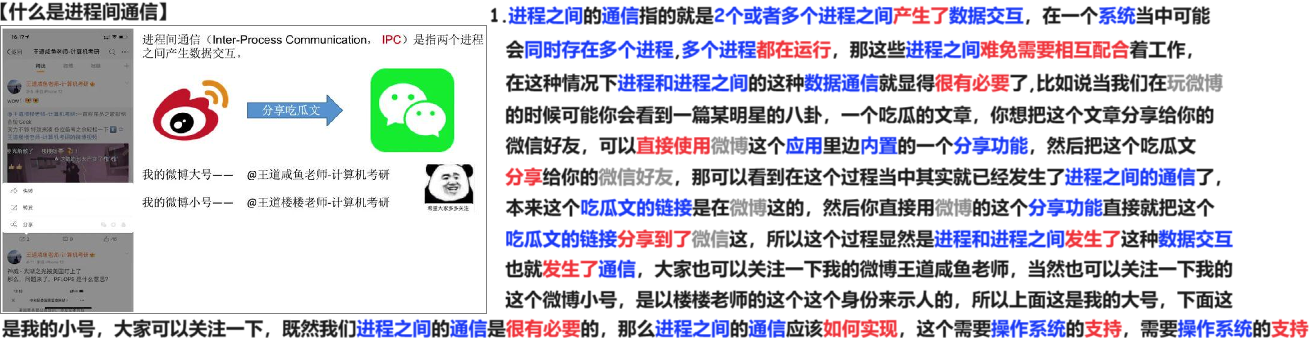
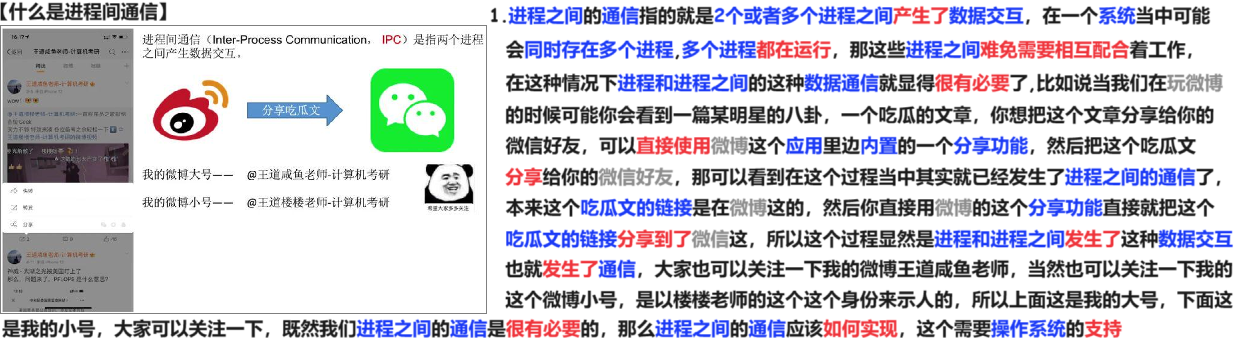
240511

diff --git a/01 初试/01 OS/02 24 25 王道/01 基础/02 进程 线程/01 进程 线程/04 进程通信 IPC 240511/02 Doc.md b/01 初试/01 OS/02 24 25 王道/01 基础/02 进程 线程/01 进程 线程/04 进程通信 IPC 240511/02 Doc.md
@@ -10,8 +10,15 @@
 
 # 02 什么是进程间通信
 
-<img src="https://cvp.oss-cn-shanghai.aliyuncs.com/picgo/202405112144020.png" alt="image-20240511214420783" style="zoom:50%;" />
+<img src="https://cvp.oss-cn-shanghai.aliyuncs.com/picgo/202405112151451.png" alt="image-20240511215112223" style="zoom:50%;" />
 
 
 
 # 03 为什么 进程通信 需要操作系统支持
+
+<img src="https://cvp.oss-cn-shanghai.aliyuncs.com/picgo/202405112205935.png" alt="image-20240511220507656" style="zoom:50%;" />
+
+
+
+# 04 共享存储
+
